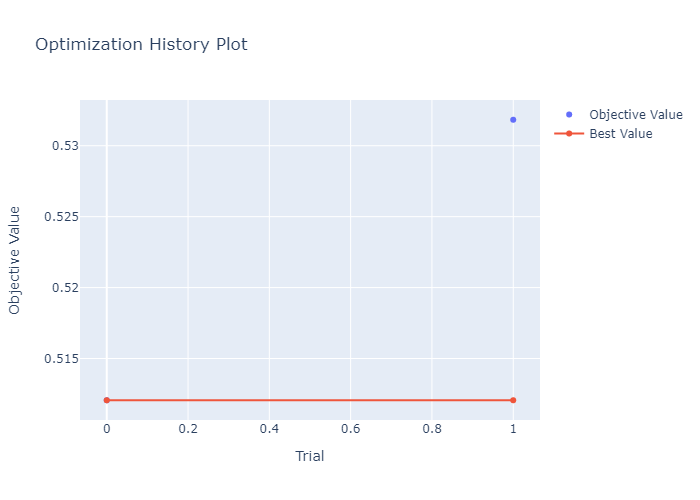
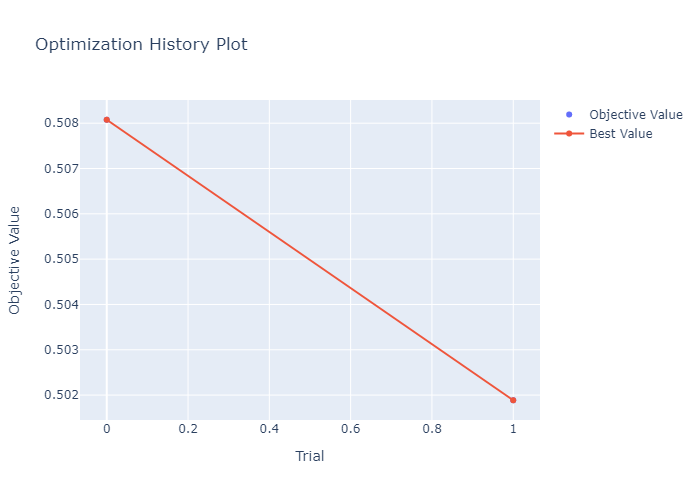
update code

diff --git a/src/script/execute.py b/src/script/execute.py
@@ -11,16 +11,19 @@ import torch
 from sklearn.metrics import roc_curve, auc
 import sys
 
-def main(trend):
+def main(trend, baseline=False):
     # retreive data
     stock_path = '../../data/stock_data_sp500_2016_2018.parquet'
     daily = pre_stock(stock_path, show_plot=False)
+    
+    if not baseline:
+        sentiment_path = '../../data/doc_score_full.csv'
+        score = pre_sentiment(sentiment_path)
 
-    sentiment_path = '../../data/doc_score_full.csv'
-    score = pre_sentiment(sentiment_path)
-
-    # merge data
-    daily = daily.merge(score, on='Date', how='left').set_index('Date').to_numpy()
+        # merge data
+        daily = daily.merge(score, on='Date', how='left').set_index('Date').to_numpy()
+    else:
+        daily = daily.set_index('Date').to_numpy()
 
     # split data
     train, val, test = time_series_split(daily, val_size=0.2, test_size=0.2)
@@ -31,8 +34,12 @@ def main(trend):
     # tune model
     best_params, val_loss = tune_model(norm_train, norm_val, trend=trend)
     print(f'best hyperparameters: {best_params}\nval RMSE: {np.sqrt(val_loss)}')
-    with open('../../results/best_params.json', 'w') as f:
-        json.dump(best_params, f)
+    if baseline:
+        with open('../../results/best_params_baseline.json', 'w') as f:
+            json.dump(best_params, f)
+    else:
+        with open('../../results/best_params_sentiment.json', 'w') as f:
+            json.dump(best_params, f)
 
     # train model with best params
     full_train = np.concatenate((norm_train, norm_val))
@@ -47,10 +54,11 @@ def main(trend):
     dropout_rate = best_params['dropout_rate']
 
     X_train = create_dataset(norm_train, lookback=lookback, trend=trend)[0]
+    input_dim = X_train.shape[2]
     temp_val = create_dataset(scaler.transform(np.concatenate((train[-lookback:], val))), lookback, trend=trend)[0]
     temp_test, test_label = create_dataset(scaler.transform(np.concatenate((val[-lookback:], test))), lookback, trend=trend)
     price = daily[:, 0]
-    model = LSTMModel(input_dim=10, n_nodes=n_nodes, output_dim=1, n_layers=n_layers, dropout_rate=dropout_rate)
+    model = LSTMModel(input_dim=input_dim, n_nodes=n_nodes, output_dim=1, n_layers=n_layers, dropout_rate=dropout_rate)
     model.double()
     model.load_state_dict(opt_model_state) # load the optimal model state
     model.eval()
@@ -80,12 +88,14 @@ def main(trend):
             plt.plot(train_plot, c='r')
             plt.plot(val_plot, c='g')
             plt.plot(t_plot, c='orange')
+            plt.savefig('../../results/full_price_pred.png')
             plt.show()
 
             t_loss = np.sqrt(mean_squared_error(t_pred, test_label[:,0,0].view(-1, 1)))
             print(f'test RMSE: {t_loss}')
             plt.plot(price[len(y_pred)+len(val_pred)+lookback:], c='b')
             plt.plot(t_plot[len(y_pred)+len(val_pred)+lookback:], c='orange')
+            plt.savefig('../../results/test_price_pred.png')
             plt.show()
 
         else:
@@ -105,10 +115,14 @@ def main(trend):
             plt.ylabel('True Positive Rate')
             plt.title('Receiver Operating Characteristic')
             plt.legend(loc="lower right")
+            if baseline:
+                plt.savefig('../../results/roc_baseline.png')
+            else:
+                plt.savefig('../../results/roc_sentiment.png')
             plt.show()
 
 if __name__ == '__main__':
     if sys.argv[1].lower() not in ['true', 'false']:
         raise ValueError('Invalid input: please use True or False')
     trend = sys.argv[1].lower() == 'true'
-    main(trend)
+    main(trend, baseline=True)

diff --git a/src/script/tuning.py b/src/script/tuning.py
@@ -4,20 +4,20 @@ from train import train_model
 
 def objective(trial, norm_train, norm_val, trend):
     params = {
-        'lookback' : trial.suggest_int("lookback", 5, 30, step=5),
+        'lookback' : trial.suggest_int("lookback", 5, 60, step=5),
         'lr' : trial.suggest_float("lr", 1e-5, 1e-1, log=True),
         'n_nodes' : trial.suggest_int("n_nodes", 10, 200, step=10),
-        'n_layers' : trial.suggest_int("n_layers", 1, 3),
+        'n_layers' : trial.suggest_int("n_layers", 1, 100),
         'dropout_rate' : trial.suggest_float("dropout_rate", 0.2, 0.5)
     }
 
-    val_loss, _ = train_model(params, norm_train, norm_val, trend=trend, n_epochs=10) # here we don't need the optimal state
+    val_loss, _ = train_model(params, norm_train, norm_val, trend=trend, n_epochs=100) # here we don't need the optimal state
 
     return val_loss
 
-def tune_model(norm_train, norm_val, trend):
+def tune_model(norm_train, norm_val, trend, baseline=False):
     study = optuna.create_study(direction="minimize")
-    study.optimize(lambda trial: objective(trial, norm_train, norm_val, trend=trend), n_trials=2)
+    study.optimize(lambda trial: objective(trial, norm_train, norm_val, trend=trend), n_trials=1000)
 
     best_trial = study.best_trial
     best_params = best_trial.params
@@ -26,17 +26,26 @@ def tune_model(norm_train, norm_val, trend):
     # Plot optimization history
     history = vis.plot_optimization_history(study)
     history.show()
-    history.write_image('../../results/optimization_history.png')
+    if baseline:
+        history.write_image('../../results/optimization_history_baseline.png')
+    else:
+        history.write_image('../../results/optimization_history_sentiment.png')
 
     # Plot parameter relationship
     importance = vis.plot_param_importances(study)
     importance.show()
-    importance.write_image('../../results/param_importance.png')
+    if baseline:
+        importance.write_image('../../results/param_importance_baseline.png')
+    else:
+        importance.write_image('../../results/param_importance_sentiment.png')
     
     # Plot slice of the parameters
     slice = vis.plot_slice(study, params=['n_layers', 'n_nodes', 'dropout_rate', 'lr'])
     slice.show()
-    slice.write_image('../../results/param_slice.png')
+    if baseline:
+        slice.write_image('../../results/param_slice_baseline.png')
+    else:
+        slice.write_image('../../results/param_slice.png')
 
 
     return best_params, best_val_loss

diff --git a/src/script/train.py b/src/script/train.py
@@ -14,7 +14,7 @@ from preprocess import create_dataset
 from LSTM import LSTMModel
 import copy
 
-def train_model(params, norm_train, norm_val, trend, n_epochs=1000):
+def train_model(params, norm_train, norm_val, trend, n_epochs=2000):
     # set hyperparameters
     lookback = params['lookback']
     lr = params['lr']
@@ -30,7 +30,7 @@ def train_model(params, norm_train, norm_val, trend, n_epochs=1000):
 
     # create dataloader
     batch_size = 10
-    loader = data.DataLoader(data.TensorDataset(X_train, y_train), shuffle=True, batch_size=10)
+    loader = data.DataLoader(data.TensorDataset(X_train, y_train), shuffle=True, batch_size=batch_size)
     
     # setup model
     model = LSTMModel(input_dim=input_dim, n_nodes=n_nodes, output_dim=1, n_layers=n_layers, dropout_rate=dropout_rate)
